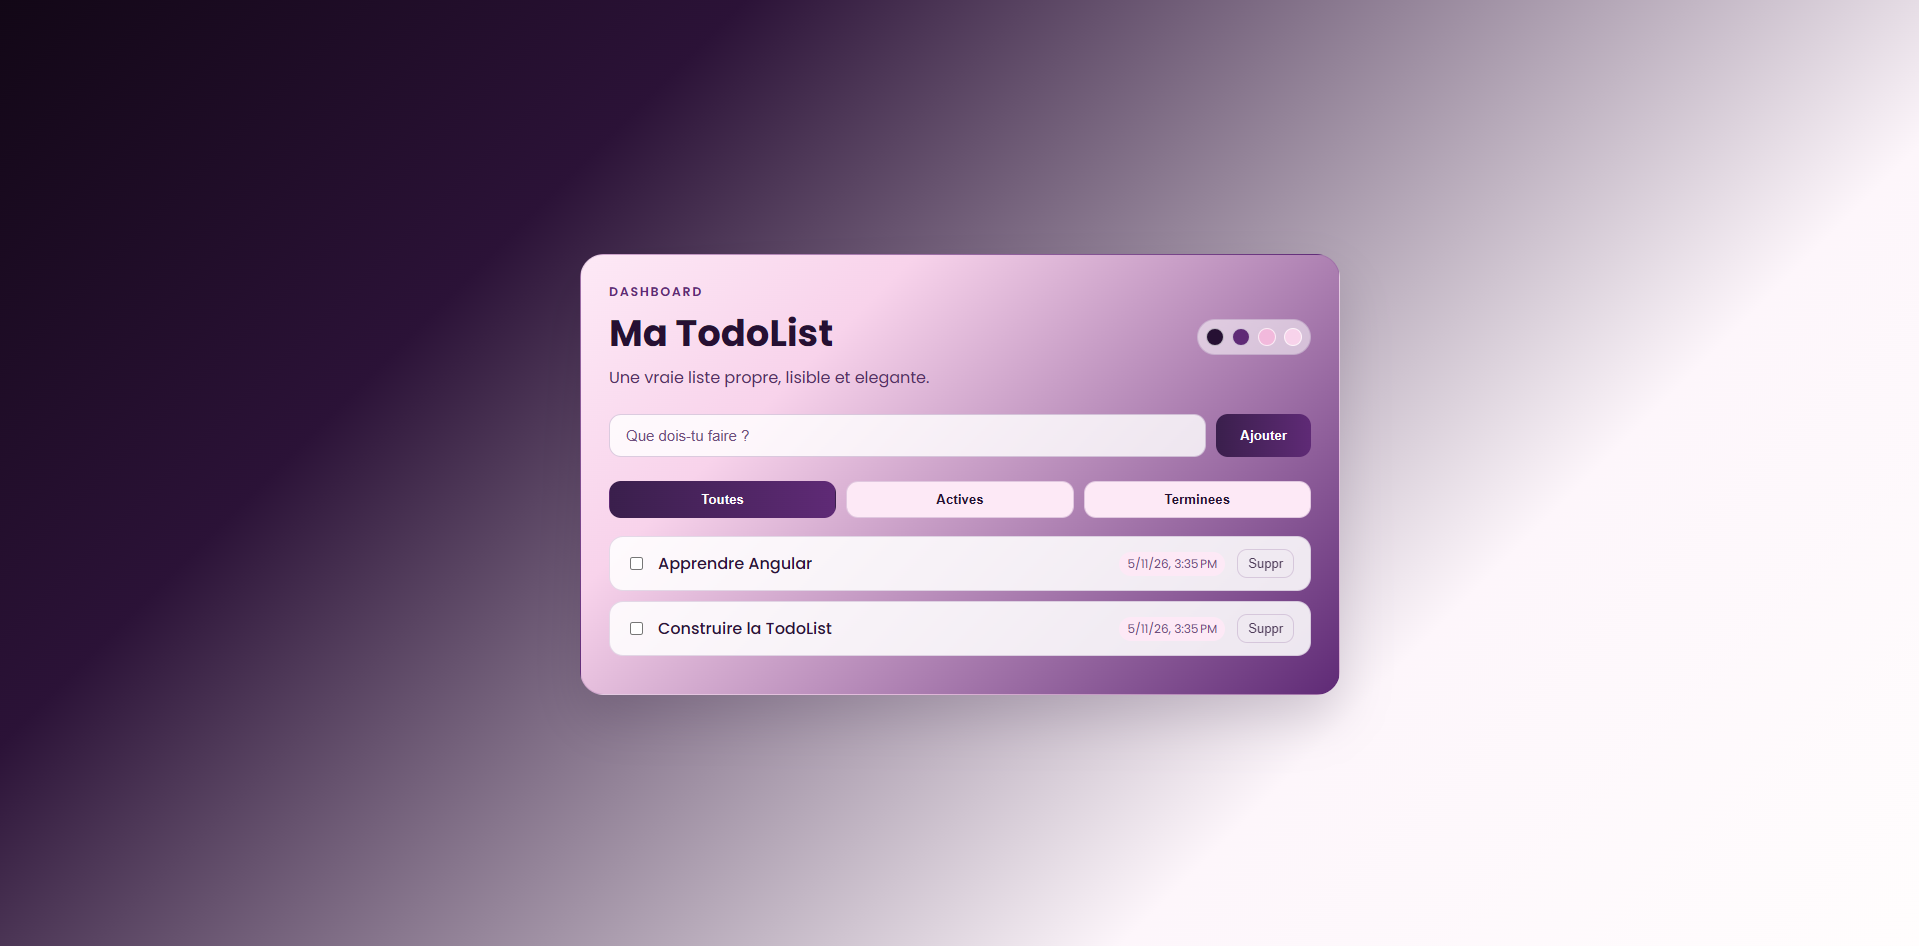
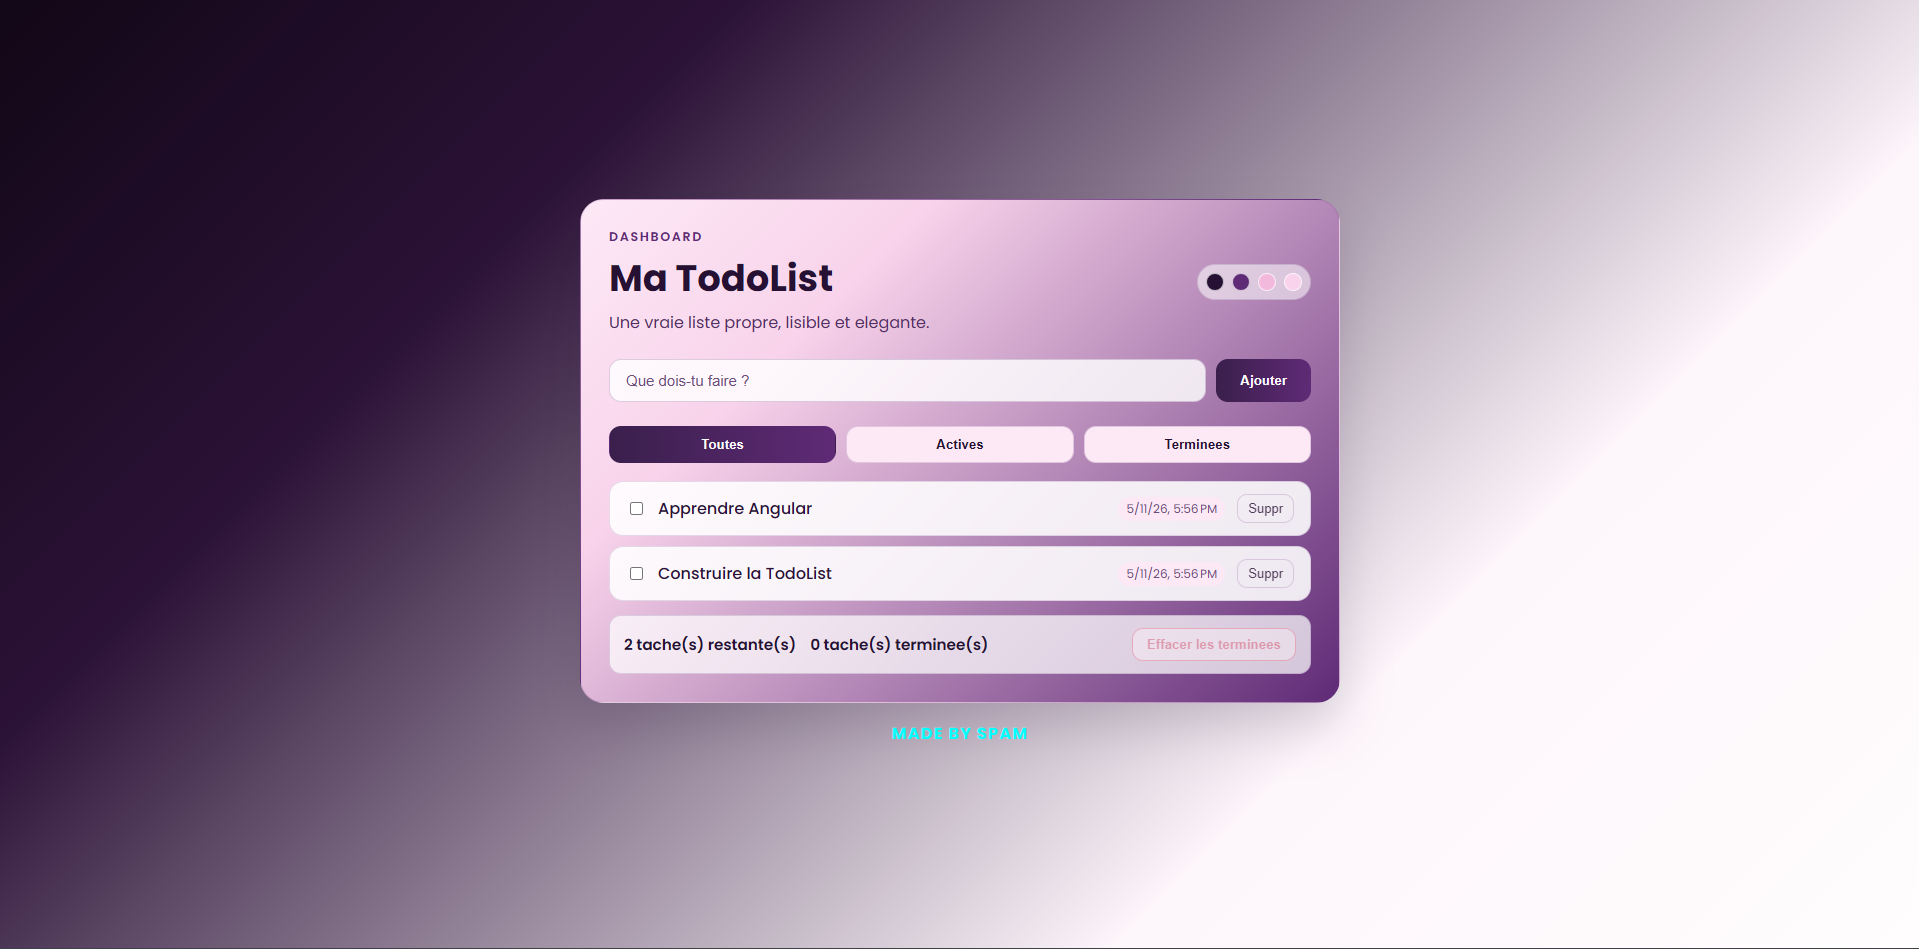
ajout de ma signature sur les projet et dans les README avec la precision sur l'ATH

Changed region(s): [[0.2767, 0.1839, 0.7071, 0.797]]

diff --git a/TP J1/mon-projet/src/app/app.css b/TP J1/mon-projet/src/app/app.css
@@ -7,10 +7,22 @@
 	min-height: 100vh;
 	padding: 2rem 1rem;
 	background: radial-gradient(circle at top, #d8e9ff 0%, #eef4fb 45%, #f9fbff 100%);
+	display: flex;
+	flex-direction: column;
 }
 
 h1 {
 	text-align: center;
 	margin: 0 0 1rem;
 	color: #1f2a44;
+}
+
+.app-footer {
+	margin-top: auto;
+	padding-top: 2rem;
+	text-align: center;
+	color: #00ffff;
+	font-weight: 700;
+	letter-spacing: 0.08em;
+	text-transform: uppercase;
 }

diff --git a/TP J1/todo-app/src/app/app.scss b/TP J1/todo-app/src/app/app.scss
@@ -1,0 +1,15 @@
+.app-shell {
+	width: 100%;
+	display: flex;
+	flex-direction: column;
+	align-items: center;
+	gap: 18px;
+}
+
+.app-footer {
+	color: #00ffff;
+	font-weight: 700;
+	letter-spacing: 0.08em;
+	text-transform: uppercase;
+	text-align: center;
+}

diff --git a/TP J1/mon-projet/src/app/app.html b/TP J1/mon-projet/src/app/app.html
@@ -3,4 +3,5 @@
   <app-hello></app-hello>
   <app-profil></app-profil>
   <router-outlet></router-outlet>
+  <footer class="app-footer">Made by Spam</footer>
 </main>

diff --git a/TP J1/todo-app/src/app/app.html b/TP J1/todo-app/src/app/app.html
@@ -1,1 +1,4 @@
-<app-task-list></app-task-list>
+<div class="app-shell">
+	<app-task-list></app-task-list>
+	<footer class="app-footer">Made by Spam</footer>
+</div>

diff --git a/TP J1/todo-app/README.md b/TP J1/todo-app/README.md
@@ -4,6 +4,15 @@ Une application **TodoList complète** pour maîtriser les fondamentaux d'Angula
 
 ## 🎯 Résultat final
 
+![TodoList Présentation de l'interface](./Precision%20de%20L%27Interface.png)
+
+Cette vue met en avant les principaux éléments de l'interface :
+
+1. Le compteur des tâches restantes
+2. Le compteur des tâches terminées
+3. Le bouton d'effacement rapide des tâches terminées
+4. La palette de couleurs de la page et la charte graphique générale
+
 ![TodoList Résultat](./Resultat%20Projet%20Finale.png)
 
 **Caractéristiques visuelles**:
@@ -135,3 +144,5 @@ ng serve --configuration production
 ---
 
 **Formation Angular — TP 2 Jour 2** ✨
+
+Made by Spam

diff --git a/TP J1/mon-projet/README.md b/TP J1/mon-projet/README.md
@@ -57,3 +57,5 @@ Angular CLI does not come with an end-to-end testing framework by default. You c
 ## Additional Resources
 
 For more information on using the Angular CLI, including detailed command references, visit the [Angular CLI Overview and Command Reference](https://angular.dev/tools/cli) page.
+
+Made by Spam

diff --git a/TP J1/readme.md b/TP J1/readme.md
@@ -491,3 +491,5 @@ La TodoList s'ouvre sur `http://localhost:4200`. Essayez d'ajouter, filtrer et m
 **Bonne chance!** 🎉
 
 Créé pour la formation Angular — Jour 1 & 2
+
+Made by Spam
